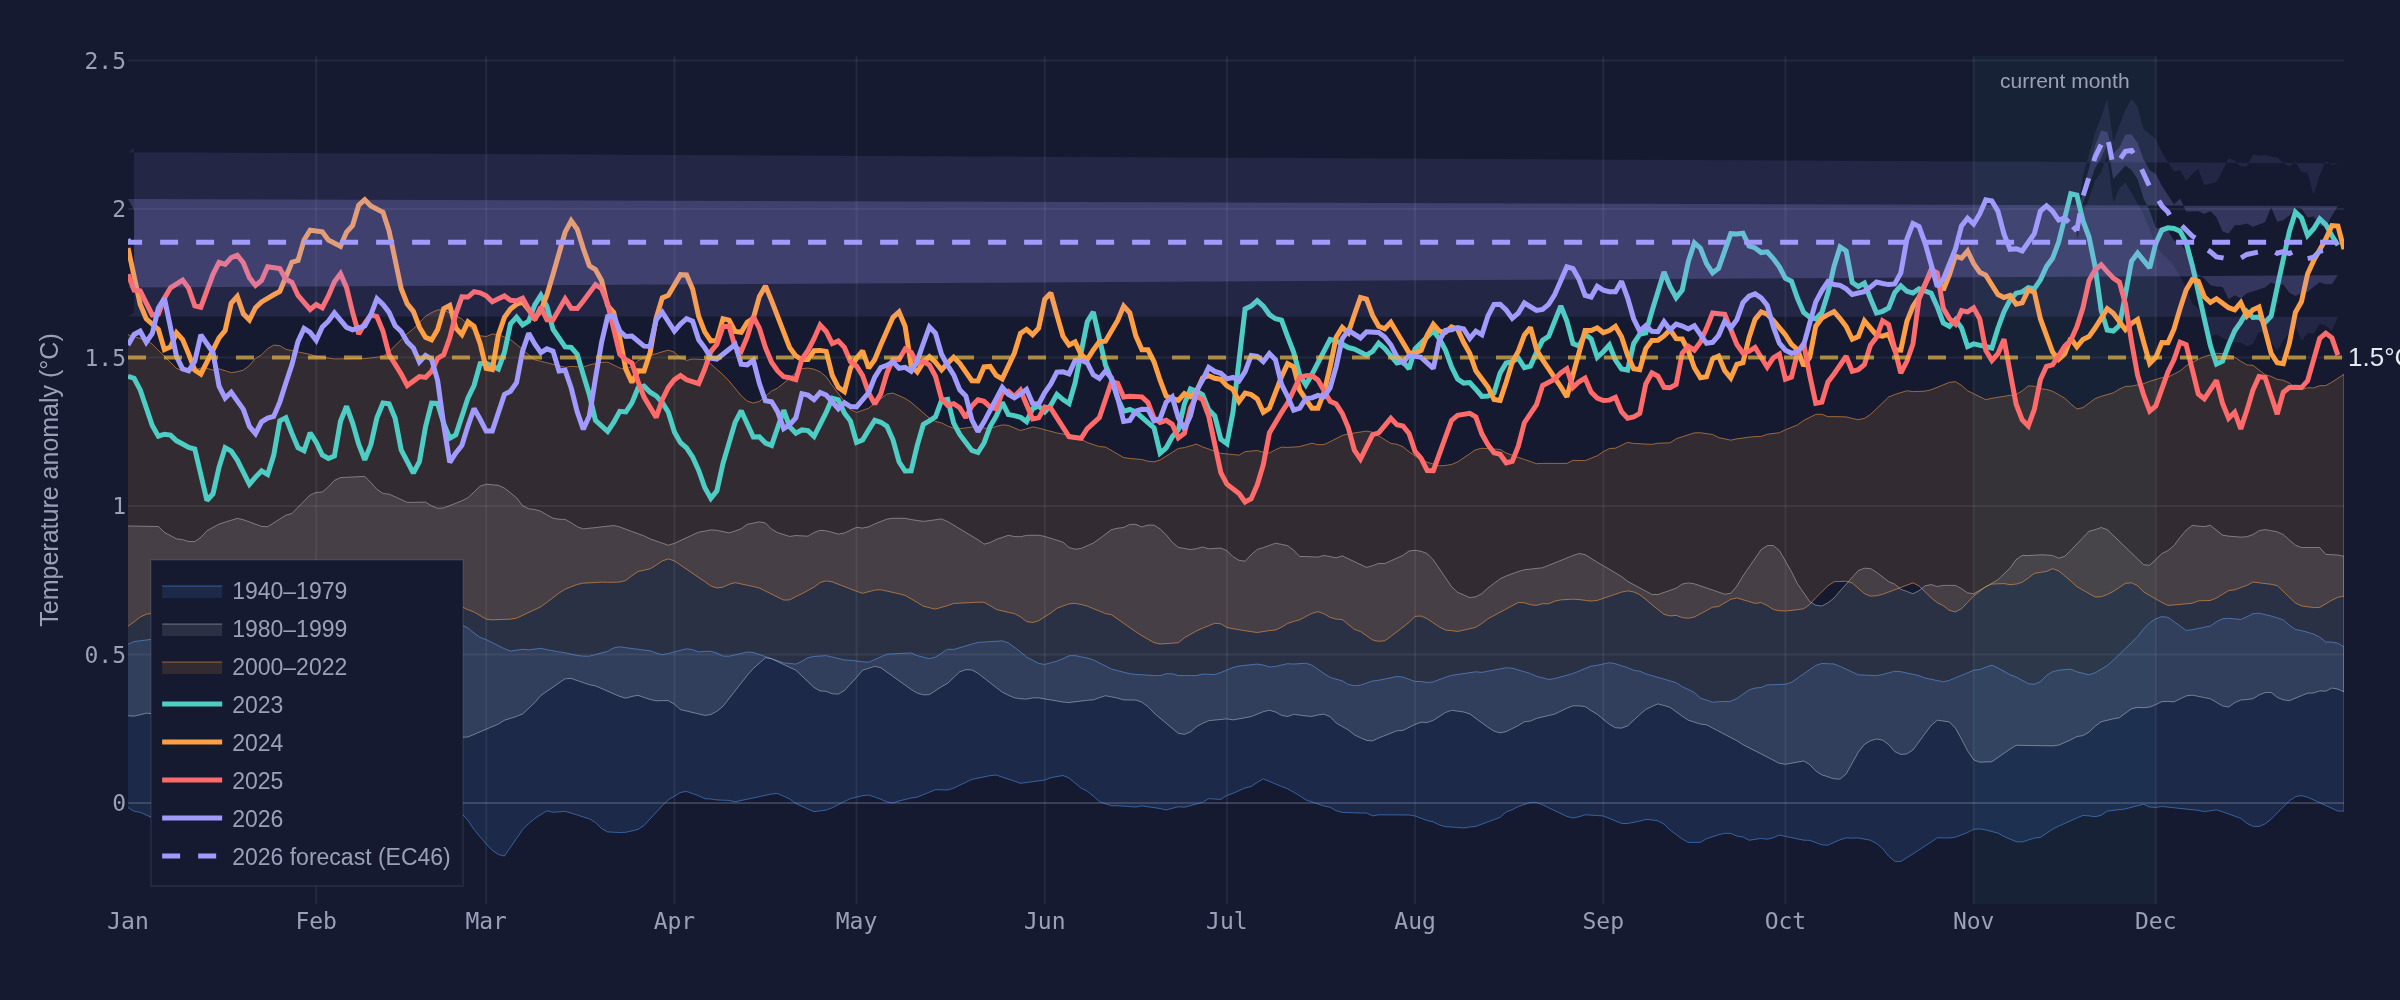
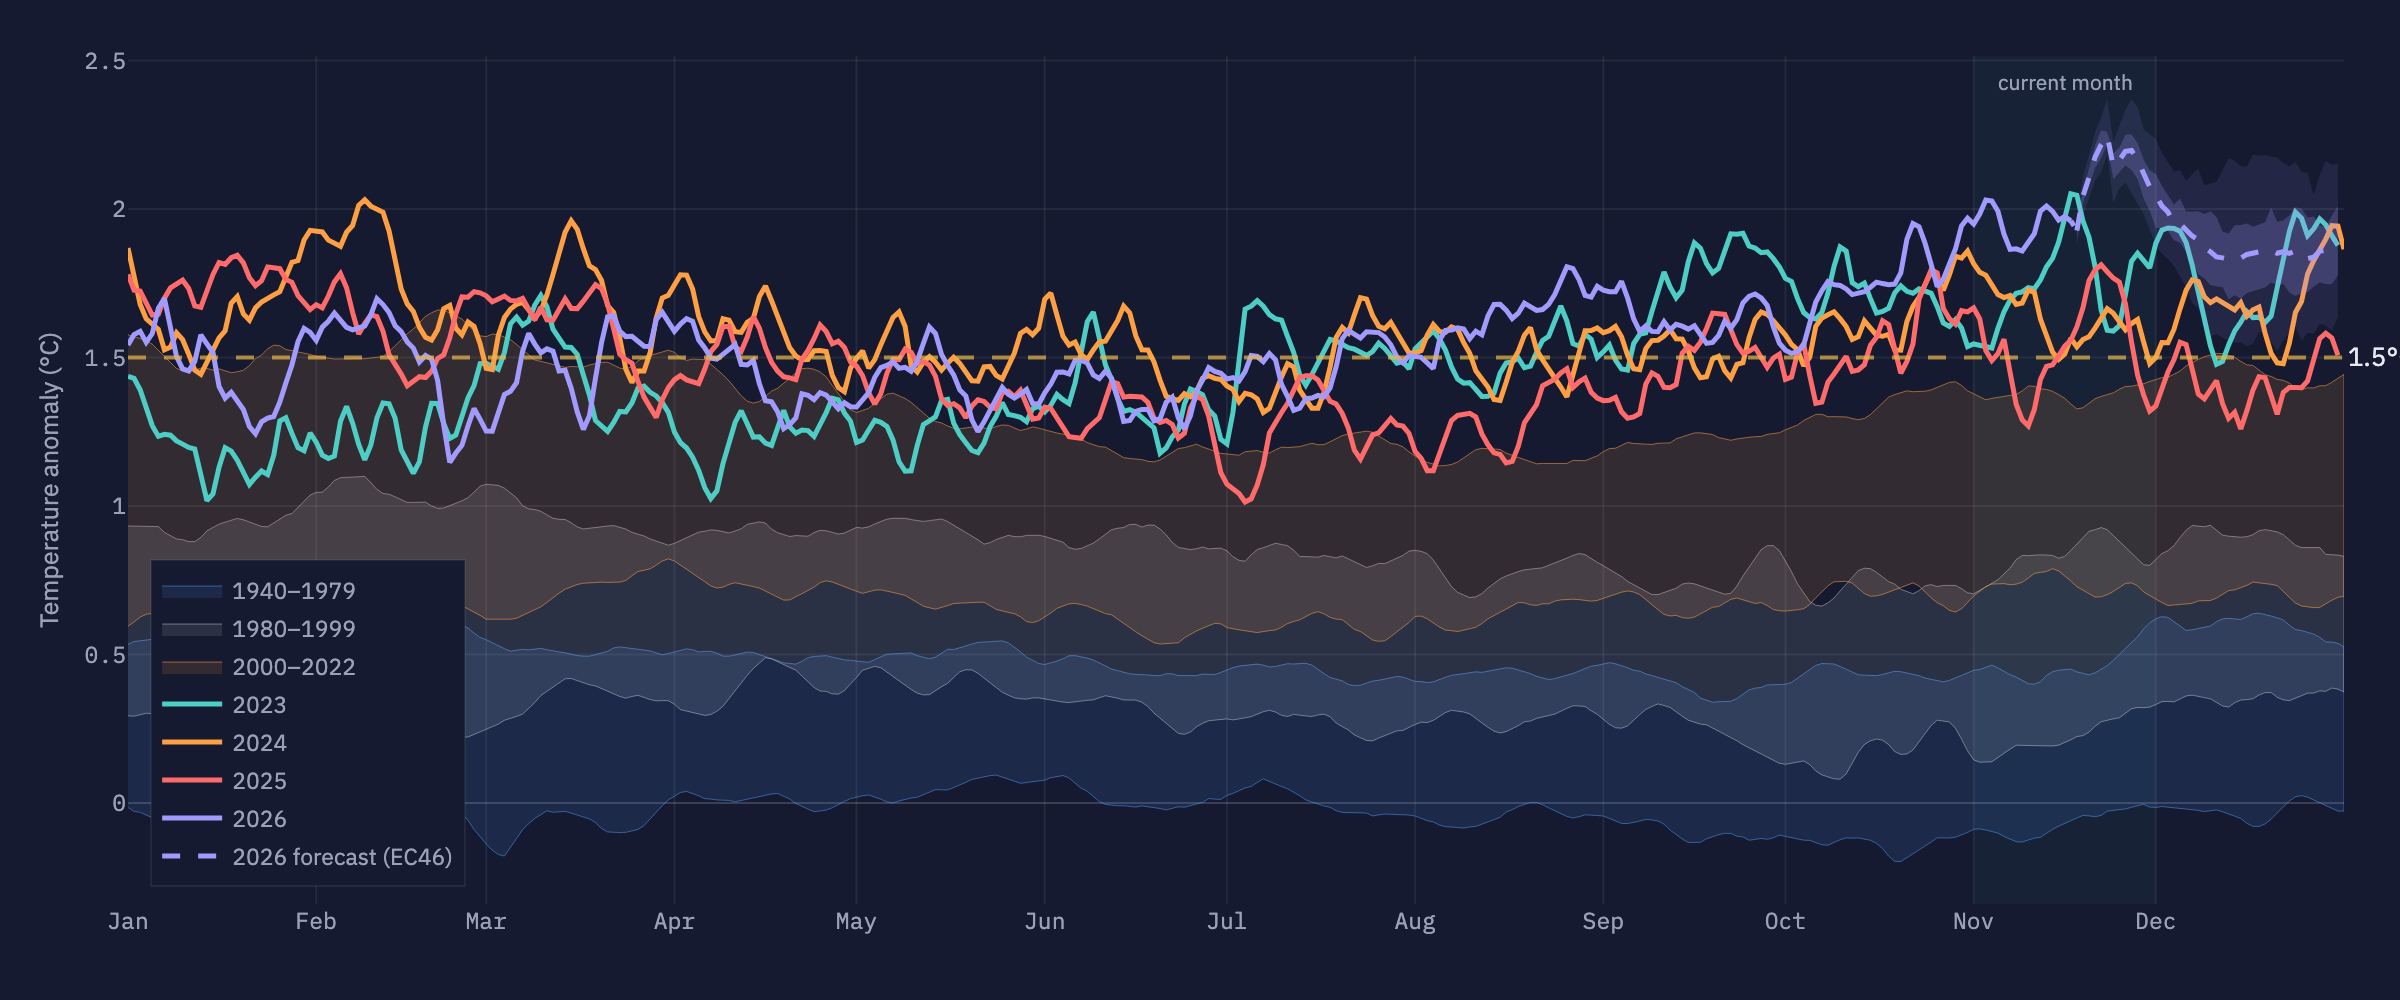
Year-in-context panel: keep the EC46 tail inside the current year
The panel's x axis is day-of-year for one calendar year. The 18 Nov
EC46 run reaches 2 Jan 2027, whose day-of-year (1-2) wrapped the
forecast band and mean line back to January, so they spanned the
whole plot. Forecast days past Dec 31 are now dropped.

diff --git a/src/dashboard.py b/src/dashboard.py
@@ -506,6 +506,10 @@ def create_daily_anomalies_plot(df: pd.DataFrame, dark_mode: bool = False) -> go
             fig.update_layout(meta={"ec46_bias": ec46_anom.attrs.get("ec46_bias"),
                                     "ec46_init": str(ec46_anom['date'].iloc[0].date())})
             current_year = int(ec46_anom['date'].iloc[0].year)
+            # The x axis is day-of-year for one calendar year: forecast days
+            # in the next year would wrap to Jan and span the whole plot.
+            ec46_anom = ec46_anom[ec46_anom['date'].dt.year == current_year]
+        if ec46_anom is not None and not ec46_anom.empty:
             color = theme['highlight_colors'].get(
                 current_year, theme['rolling_color'])
             band_outer = _hex_to_rgba(color, 0.10)
